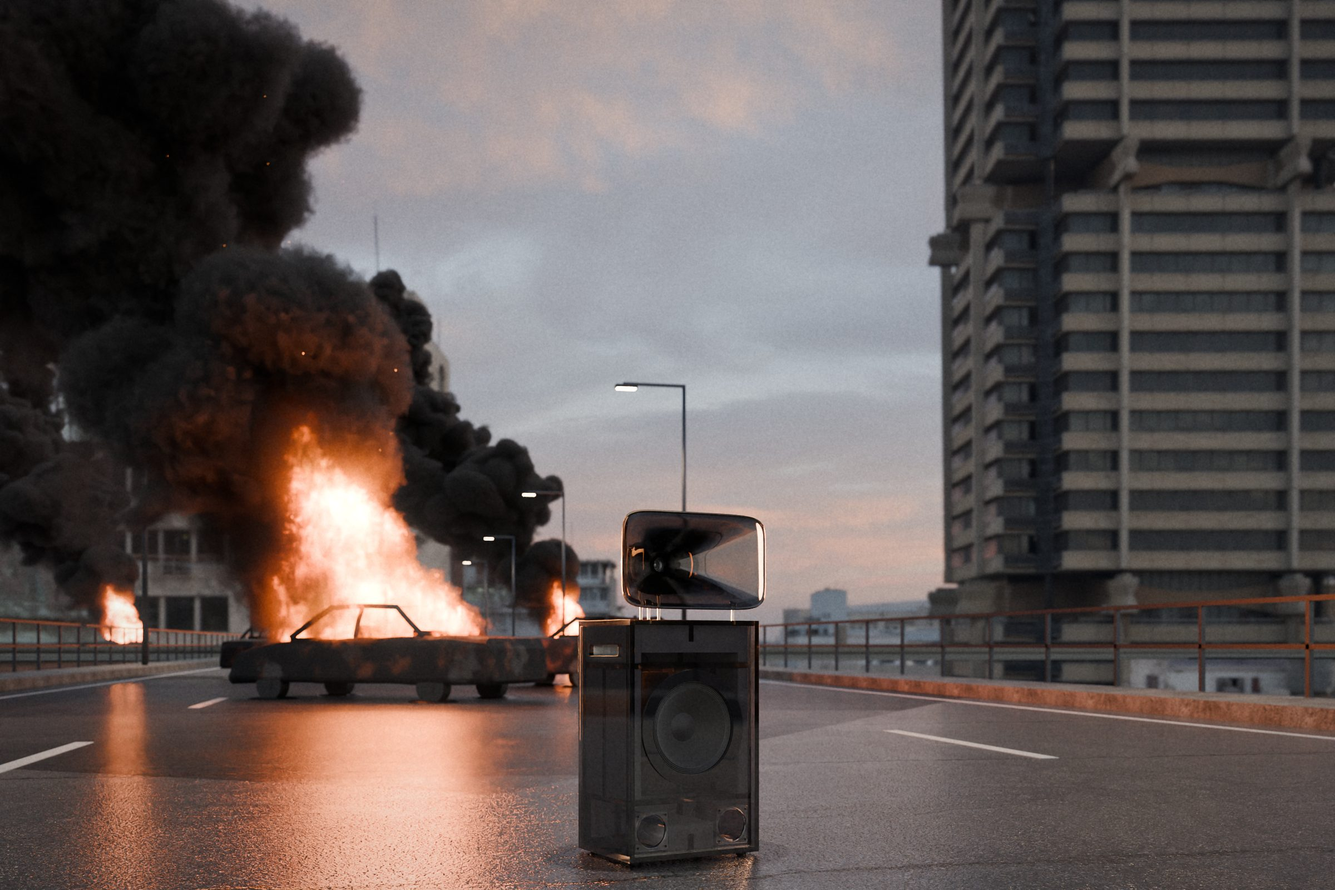
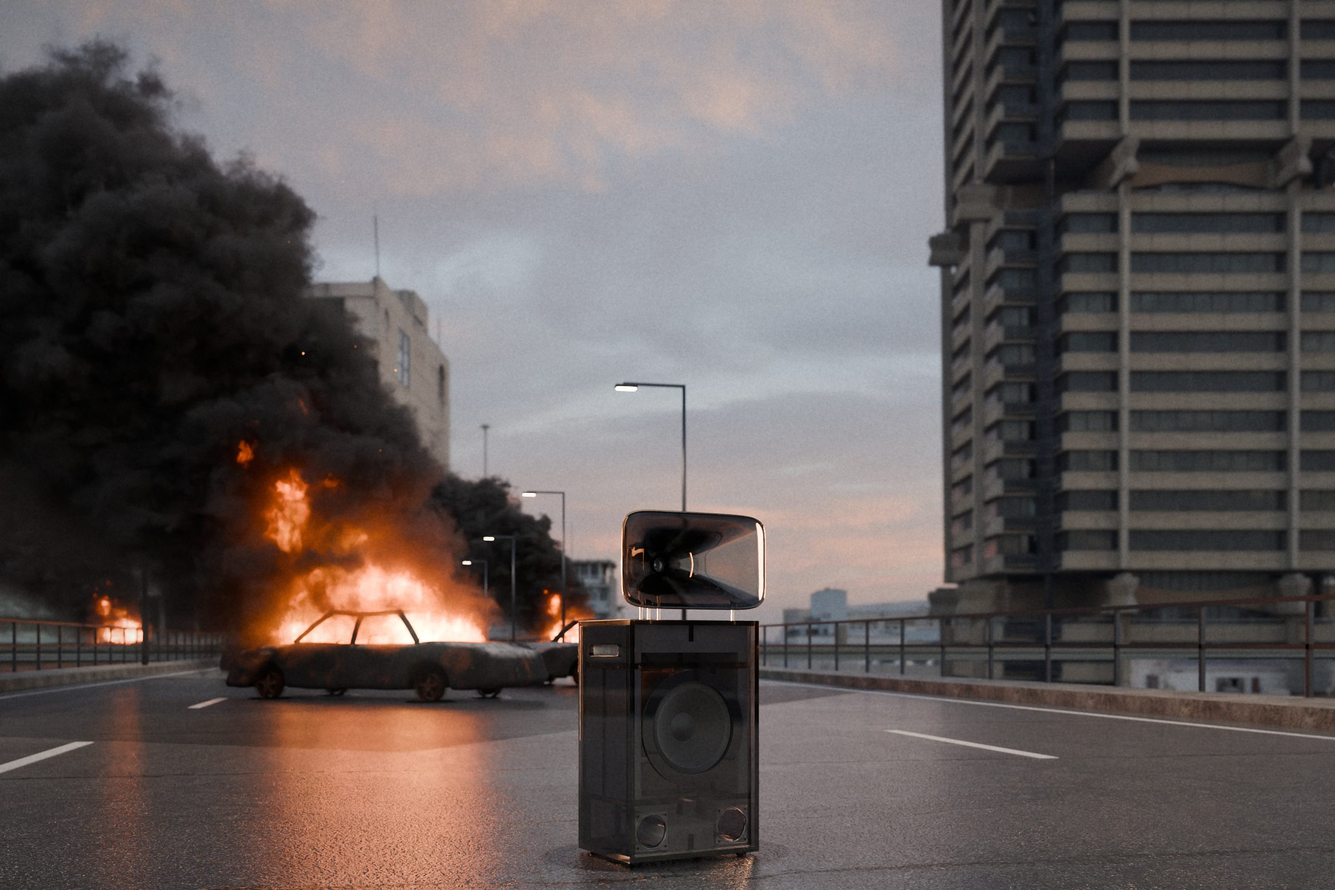
barkhorn site: Smoke in its element is E10, the bigger bridge pass the owner approved
The owner, 2026-10-22: "Bridge: put the bigger bridge pass live meanwhile". Both frames are final (eight strips
each at 128 samples, stitched without seams; r31-element-smoke-e10 9c0ea031): the overpass at blue hour, a
burnt-out car still burning behind the speaker. The caption was ready (PLACES). It goes live with the rest of the
branch when the owner says so.

Claude-Session: https://claude.ai/code/session_016Hs9fK3h2VwVeRXpa18b1z

diff --git a/spinoffs/barkhorn/site/index.html b/spinoffs/barkhorn/site/index.html
@@ -766,7 +766,7 @@ html.cursor, html.cursor * { cursor: none !important }
 </div></footer>
 
 <script>
[2 lines of base64/hex data omitted]
 const SLUG = Object.fromEntries(D.clouds.map(c => [c.name.toLowerCase(), c.k])), keyOf = w => SLUG[w] || (BY[w] ? w : null);
 const reduce = matchMedia('(prefers-reduced-motion: reduce)').matches, TAU = Math.PI * 2;
 // lit from below: scrolling picks the colour (a quarter of a screen each) and time plays the change; the coins are a

diff --git a/spinoffs/barkhorn/web.py b/spinoffs/barkhorn/web.py
@@ -72,7 +72,8 @@ ELEMENT['violet'] = 'haze_b'  # the layered hills beat the lavender field in a b
 ELEMENT['amber'] = 'acid_b'   # acid rain on black lava beat the acid spring at Dallol in a blind duel, 2 to 1 (6.3 to 5.4)
 ELEMENT['ice'] = 'fog_b'      # the headland above the fog at dawn beat the summit above a sea of cloud in a blind duel, 3 to 0 (6.7 to 4.7)
 ELEMENT['green'] = 'poison_g5'   # the owner (2026-10-22): "Poison: put the deadly green one live" - death caps and a deer's bones (G5 p4)
-ELEMENT['black'] = 'smoke_e9'    # the owner (2026-10-21): "I wanted bridge smoke" - the bridge, its smoke simulated (E9 p5)
+ELEMENT['black'] = 'smoke_e10'   # the owner (2026-10-22): "Bridge: put the bigger bridge pass live meanwhile" - the overpass
+                                 # at blue hour, a burnt-out car still burning behind it (E10; E9 p5 before it)
 PLACES = {  # where each concept stands: the speaker page leads with it ("Ember on a lava field at blue hour.")
     'ember': 'on a lava field at blue hour, the crust cracked to its glow',
     'dust': 'on rippled sand in the Southwest at golden hour',
